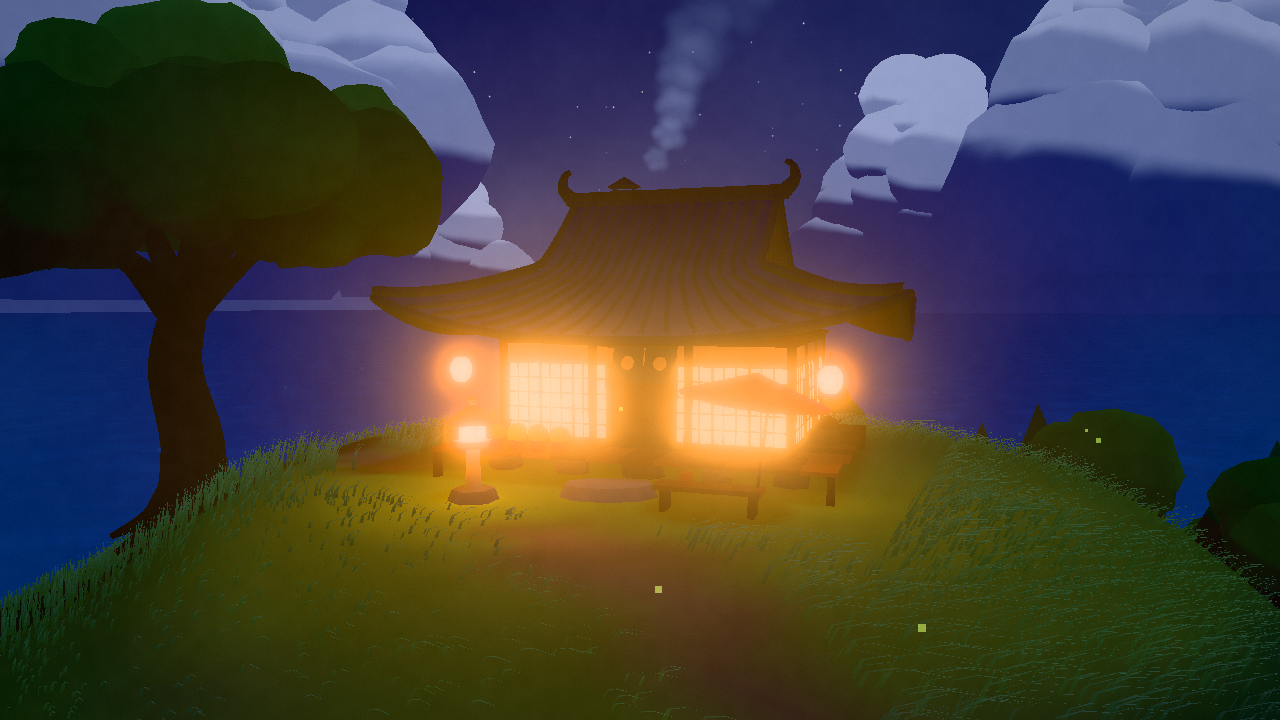
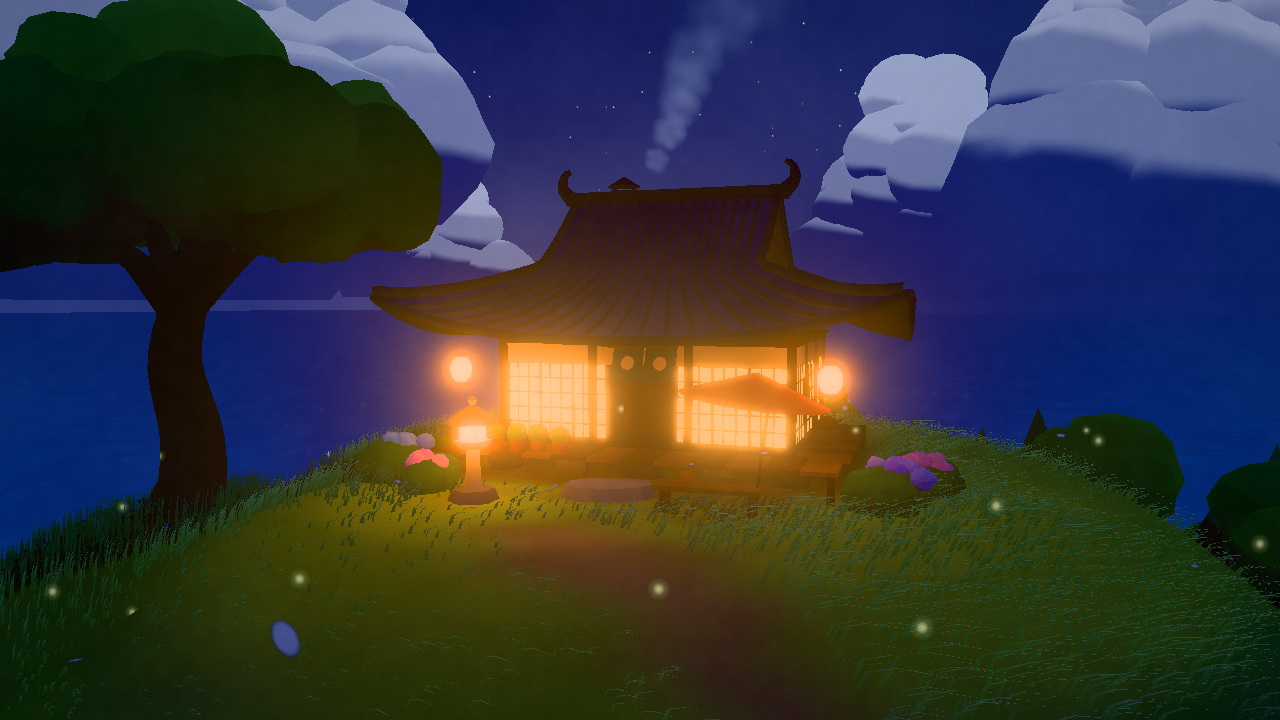
art: wildflower drifts, hydrangeas, drifting petals, kettle steam, soft fireflies, tamer night bloom

diff --git a/src/world/life.ts b/src/world/life.ts
@@ -1,0 +1,192 @@
+import * as THREE from 'three';
+import { mulberry32, fbm2, smoothstep } from '../lib/noise';
+import { blob, merge, paint, place } from '../lib/geo';
+import { toon, globalUniforms, CLOUD_SHADOW_GLSL } from '../render/toon';
+import { heightAt, surfaceAt, pathDistAt, HOUSE, HOUSE_ROT, HERO_TREE } from './terrain';
+
+/**
+ * Cozy life layer:
+ *  - wildflower clumps (clustered by noise, densest along the path and around the house)
+ *  - hydrangea bushes as the one strong hue accent beside the tea house
+ *  - drifting petals carried by the shared wind
+ * Everything is seeded so screenshots are reproducible.
+ */
+
+const FLOWER_COLS = ['#fff3e0', '#ffd25e', '#f59ab8', '#b7a0f4', '#fffaf2'];
+
+/** Instanced flower heads: a tiny 5-petal star on a thin stem, coloured per instance. */
+export function createFlowers(count: number) {
+  // star-shaped head (flat disc with 5 lobes) + stem, in one small geometry
+  const head = new THREE.CircleGeometry(0.09, 10);
+  const p = head.attributes.position as THREE.BufferAttribute;
+  for (let i = 1; i < p.count; i++) {
+    const a = Math.atan2(p.getY(i), p.getX(i));
+    const r = 0.075 + 0.065 * Math.pow(Math.abs(Math.cos(a * 2.5)), 0.6);
+    p.setXY(i, Math.cos(a) * r, Math.sin(a) * r);
+  }
+  head.rotateX(-Math.PI / 2 + 0.35);
+  head.translate(0, 0.17, 0);
+  // a little yellow eye so heads read as flowers, not paper stars
+  const eye = new THREE.SphereGeometry(0.035, 6, 4);
+  eye.translate(0, 0.185, 0.02);
+  const stem = new THREE.CylinderGeometry(0.016, 0.022, 0.17, 4, 1);
+  stem.translate(0, 0.085, 0);
+  // two leaves at the base hide the stem/ground contact
+  const leafA = new THREE.SphereGeometry(0.06, 5, 3); leafA.scale(1.6, 0.35, 0.7); leafA.translate(0.06, 0.04, 0);
+  const leafB = leafA.clone(); leafB.rotateY(2.4);
+  for (const g of [head, stem, eye, leafA, leafB]) { g.deleteAttribute('uv'); }
+  const headCol = new Float32Array(head.attributes.position.count * 3).fill(1);
+  const stemCol = new Float32Array(stem.attributes.position.count * 3);
+  for (let i = 0; i < stem.attributes.position.count; i++) stemCol.set([0.32, 0.5, 0.22], i * 3);
+  head.setAttribute('color', new THREE.BufferAttribute(headCol, 3));
+  stem.setAttribute('color', new THREE.BufferAttribute(stemCol, 3));
+  const solid = (g: THREE.BufferGeometry, c: [number, number, number]) => { const a = new Float32Array(g.attributes.position.count * 3); for (let i = 0; i < g.attributes.position.count; i++) a.set(c, i * 3); g.setAttribute('color', new THREE.BufferAttribute(a, 3)); return g; };
+  // instance colour multiplies vertex colour: eye/leaves are pre-darkened so they stay yellow/green-ish under any tint
+  const geo = merge([head, stem, solid(eye, [1.0, 0.85, 0.35]), solid(leafA, [0.35, 0.55, 0.25]), solid(leafB, [0.32, 0.52, 0.24])]);
+
+  const mat = toon({ vertexColors: true, rim: 0.5, sway: 0.12, swayHeight: 0.4, side: THREE.DoubleSide });
+  const mesh = new THREE.InstancedMesh(geo, mat, count);
+  const rand = mulberry32(2024);
+  const m = new THREE.Matrix4(), q = new THREE.Quaternion(), e = new THREE.Euler(), sc = new THREE.Vector3(), pos = new THREE.Vector3();
+  const col = new THREE.Color();
+  let n = 0, tries = 0;
+  while (n < count && tries < count * 40) {
+    tries++;
+    const x = (rand() - 0.5) * 150, z = (rand() - 0.5) * 150;
+    const s = surfaceAt(x, z);
+    if (s.kind !== 'grass' || s.grassiness < 0.6) continue;
+    // clumps: low-frequency noise picks meadow patches; edges of path and house get extra
+    const clump = fbm2(x * 0.09 + 31, z * 0.09 - 17, 3);
+    const pd = pathDistAt(x, z);
+    const edge = smoothstep(3.2, 1.4, pd) * smoothstep(0.9, 1.4, pd);
+    const nearTree = smoothstep(6, 3, Math.hypot(x - HERO_TREE.x, z - HERO_TREE.z));
+    const keep = smoothstep(0.6, 0.7, clump) + edge * smoothstep(0.45, 0.58, clump) + nearTree * 0.25;
+    if (rand() > keep * keep) continue;
+    // tighten each drift: jitter towards a 1.2 m cell centre so heads touch and form a cushion
+    const cx = (Math.floor(x / 1.2) + 0.5) * 1.2, cz = (Math.floor(z / 1.2) + 0.5) * 1.2;
+    const pull = 0.35 * rand();
+    const fx = x + (cx - x) * pull, fz = z + (cz - z) * pull;
+    // each patch has a dominant colour so clumps read as drifts, not confetti
+    const pick = (Math.floor(fbm2(x * 0.04 - 9, z * 0.04 + 4, 2) * FLOWER_COLS.length * 2.2) + (rand() < 0.12 ? 1 : 0)) % FLOWER_COLS.length;
+    col.set(FLOWER_COLS[pick]).offsetHSL((rand() - 0.5) * 0.03, 0, (rand() - 0.5) * 0.08);
+    pos.set(fx, heightAt(fx, fz) - 0.03, fz);
+    e.set((rand() - 0.5) * 0.3, rand() * Math.PI * 2, (rand() - 0.5) * 0.3);
+    const k = 0.8 + rand() * 0.7;
+    sc.set(k, k * (0.8 + rand() * 0.6), k);
+    m.compose(pos, q.setFromEuler(e), sc);
+    mesh.setMatrixAt(n, m);
+    mesh.setColorAt(n, col);
+    n++;
+  }
+  mesh.count = n;
+  mesh.instanceMatrix.needsUpdate = true;
+  if (mesh.instanceColor) mesh.instanceColor.needsUpdate = true;
+  mesh.frustumCulled = false;
+  return mesh;
+}
+
+/** Hydrangea bushes: mounded leaves crowned with soft blue-violet-pink flower balls. */
+export function createHydrangeas(): THREE.Group {
+  const group = new THREE.Group();
+  const rand = mulberry32(88);
+  const leaves: THREE.BufferGeometry[] = [];
+  const blooms: THREE.BufferGeometry[] = [];
+  const bloomCols = ['#8fa8ff', '#a690f0', '#c39af0', '#f0a8d0', '#7fb6ff'];
+  // spots in house-local space: flanking the step and along the front of the veranda
+  const spots: [number, number, number][] = [[-5.6, 4.3, 1.1], [-4.6, 5.4, 0.8], [5.9, 4.0, 1.0], [6.4, 2.2, 0.85], [-5.4, -1.8, 0.9]];
+  const cr = Math.cos(HOUSE_ROT), sr = Math.sin(HOUSE_ROT);
+  for (const [lx, lz, s] of spots) {
+    const x = HOUSE.x + lx * cr + lz * sr, z = HOUSE.z - lx * sr + lz * cr;
+    const y = heightAt(x, z) - 0.05;
+    const tint = bloomCols[Math.floor(rand() * bloomCols.length)];
+    for (let k = 0; k < 5; k++) {
+      const g = blob(0.55 * s + rand() * 0.2, 2, 0.2, rand() * 30, 0.75);
+      place(g, x + (rand() - 0.5) * 0.9 * s, y + 0.35 * s, z + (rand() - 0.5) * 0.9 * s, rand(), rand() * 6, 0);
+      leaves.push(paint(g, new THREE.Color('#3d7a40').lerp(new THREE.Color('#6aa24e'), rand() * 0.5), 0.05));
+    }
+    const heads = 6 + Math.floor(rand() * 4);
+    for (let k = 0; k < heads; k++) {
+      const a = rand() * Math.PI * 2, r = rand() * 0.6 * s;
+      const g = blob(0.2 + rand() * 0.08, 2, 0.35, rand() * 40, 0.9);
+      place(g, x + Math.cos(a) * r, y + 0.65 * s + rand() * 0.25, z + Math.sin(a) * r);
+      blooms.push(paint(g, new THREE.Color(tint).offsetHSL((rand() - 0.5) * 0.05, 0, (rand() - 0.5) * 0.1), 0.08));
+    }
+  }
+  const lm = new THREE.Mesh(merge(leaves), toon({ vertexColors: true, rim: 0.35, sway: 0.06, swayHeight: 1.2 }));
+  const bm = new THREE.Mesh(merge(blooms), toon({ vertexColors: true, rim: 0.6, sway: 0.08, swayHeight: 1.2 }));
+  for (const mm of [lm, bm]) { mm.castShadow = true; mm.receiveShadow = true; }
+  group.add(lm, bm);
+  return group;
+}
+
+/** Petals drifting on the wind across the hill; wrap around a box centred on a moving focus. */
+export function createPetals(count: number) {
+  const g = new THREE.PlaneGeometry(0.16, 0.11);
+  const geo = new THREE.InstancedBufferGeometry();
+  geo.index = g.index;
+  geo.setAttribute('position', g.attributes.position);
+  geo.setAttribute('uv', g.attributes.uv);
+  const rand = mulberry32(77);
+  const seeds = new Float32Array(count * 4);
+  for (let i = 0; i < count; i++) seeds.set([rand(), rand(), rand(), rand()], i * 4);
+  geo.setAttribute('aSeed', new THREE.InstancedBufferAttribute(seeds, 4));
+  geo.instanceCount = count;
+  const uniforms = {
+    ...globalUniforms,
+    uFocus: { value: new THREE.Vector3() },
+    uLight: { value: new THREE.Color(1, 1, 1) },
+  };
+  const mat = new THREE.ShaderMaterial({
+    uniforms,
+    side: THREE.DoubleSide,
+    transparent: true,
+    depthWrite: false,
+    vertexShader: /* glsl */ `
+      attribute vec4 aSeed;
+      uniform float uTime, uWind; uniform vec2 uWindDir; uniform vec3 uFocus;
+      varying vec2 vUv; varying float vA; varying float vTint; varying vec2 vXZ;
+      void main(){
+        vec3 box = vec3(60.0, 9.0, 60.0);
+        float sp = 0.6 + aSeed.w * 0.8;
+        vec3 drift = vec3(uWindDir.x, 0.0, uWindDir.y) * uTime * (1.4 + uWind) * sp;
+        vec3 p0 = aSeed.xyz * box + drift + vec3(sin(uTime * 0.7 + aSeed.x * 40.0), sin(uTime * 1.1 + aSeed.y * 30.0) * 0.6, cos(uTime * 0.6 + aSeed.z * 50.0)) * 0.9;
+        vec3 rel = mod(p0 - uFocus + box * 0.5, box) - box * 0.5;
+        vec3 wp = uFocus + rel;
+        wp.y = uFocus.y + rel.y * 0.5 + 1.0;
+        // tumble
+        float a = uTime * (1.5 + aSeed.w * 2.0) + aSeed.x * 20.0;
+        float b = uTime * (1.1 + aSeed.z * 1.7) + aSeed.y * 15.0;
+        vec3 v = position;
+        v = vec3(v.x, v.y * cos(a) - v.z * sin(a), v.y * sin(a) + v.z * cos(a));
+        v = vec3(v.x * cos(b) + v.z * sin(b), v.y, -v.x * sin(b) + v.z * cos(b));
+        vUv = uv;
+        vA = smoothstep(box.x * 0.5, box.x * 0.3, length(rel.xz));
+        vTint = aSeed.y;
+        vXZ = wp.xz;
+        gl_Position = projectionMatrix * viewMatrix * vec4(wp + v, 1.0);
+      }`,
+    fragmentShader: /* glsl */ `
+      uniform vec3 uLight;
+      varying vec2 vUv; varying float vA; varying float vTint; varying vec2 vXZ;
+      ${CLOUD_SHADOW_GLSL}
+      void main(){
+        vec2 q = vUv * 2.0 - 1.0;
+        float d = length(q * vec2(1.0, 1.4));
+        if (d > 1.0) discard;
+        vec3 col = mix(vec3(1.0, 0.8, 0.88), vec3(1.0, 0.95, 0.9), vTint);
+        col *= uLight * 1.15;
+        col = applyCloudShadow(col, vXZ);
+        gl_FragColor = vec4(col, vA * smoothstep(1.0, 0.6, d) * 0.95);
+        #include <colorspace_fragment>
+      }`,
+  });
+  const mesh = new THREE.Mesh(geo, mat);
+  mesh.frustumCulled = false;
+  return {
+    mesh,
+    update(focus: THREE.Vector3, light: THREE.Color) {
+      uniforms.uFocus.value.copy(focus);
+      uniforms.uLight.value.copy(light);
+    },
+  };
+}

diff --git a/src/main.ts b/src/main.ts
@@ -11,6 +11,7 @@ import { createHeroTree, createSmallTree } from './models/trees';
 import { createTeaHouse } from './models/teahouse';
 import { mulberry32 } from './lib/noise';
 import { InputController } from './game/input';
+import { createFlowers, createHydrangeas, createPetals } from './world/life';
 import { createFollowCamera, createPlayer } from './game/player';
 
 /**
@@ -79,6 +80,13 @@ scene.add(sea.mesh);
 const grass = createGrass(quality === 'low' ? 50000 : quality === 'med' ? 100000 : 160000);
 grass.mesh.receiveShadow = quality !== 'low';
 scene.add(grass.mesh);
+// cozy life layer: wildflower drifts, hydrangeas by the veranda, petals on the wind
+const flowers = createFlowers(quality === 'low' ? 4000 : quality === 'med' ? 8000 : 14000);
+flowers.receiveShadow = quality !== 'low';
+scene.add(flowers);
+scene.add(createHydrangeas());
+const petals = createPetals(quality === 'low' ? 120 : quality === 'med' ? 220 : 320);
+scene.add(petals.mesh);
 
 const house = createTeaHouse();
 house.group.position.copy(HOUSE);
@@ -168,9 +176,21 @@ for (let i = 0; i < 9; i++) {
   scene.add(s);
 }
 
+// kettle steam on the side veranda
+const kettleTop = house.group.localToWorld(new THREE.Vector3(4.45, 1.42, 0.8));
+const steam: THREE.Sprite[] = [];
+for (let i = 0; i < 6; i++) {
+  const sp = new THREE.Sprite(new THREE.SpriteMaterial({ map: smokeTex, transparent: true, depthWrite: false, opacity: 0 }));
+  sp.userData.phase = i / 6;
+  steam.push(sp);
+  scene.add(sp);
+}
+const petalFocus = new THREE.Vector3();
+const petalLight = new THREE.Color();
+
 // fireflies
 const fireflyGeo = new THREE.BufferGeometry();
-const FF = 60;
+const FF = quality === 'low' ? 60 : 110;
 const ffBase = new Float32Array(FF * 3);
 for (let i = 0; i < FF; i++) {
   const a = rand() * Math.PI * 2, r = 4 + rand() * 30;
@@ -178,7 +198,21 @@ for (let i = 0; i < FF; i++) {
   ffBase.set([x, heightAt(x, z) + 0.6 + rand() * 1.8, z], i * 3);
 }
 fireflyGeo.setAttribute('position', new THREE.BufferAttribute(ffBase.slice(), 3));
-const fireflyMat = new THREE.PointsMaterial({ color: 0xd8ff8a, size: 0.22, transparent: true, opacity: 0, depthWrite: false, blending: THREE.AdditiveBlending });
+// soft round glow sprite: a bright core with a wide falloff (square points read as dead pixels)
+const glowTex = (() => {
+  const c = document.createElement('canvas');
+  c.width = c.height = 64;
+  const g = c.getContext('2d')!;
+  const grd = g.createRadialGradient(32, 32, 0, 32, 32, 32);
+  grd.addColorStop(0, 'rgba(255,255,230,1)');
+  grd.addColorStop(0.18, 'rgba(230,255,150,0.85)');
+  grd.addColorStop(0.5, 'rgba(190,255,110,0.18)');
+  grd.addColorStop(1, 'rgba(190,255,110,0)');
+  g.fillStyle = grd;
+  g.fillRect(0, 0, 64, 64);
+  return new THREE.CanvasTexture(c);
+})();
+const fireflyMat = new THREE.PointsMaterial({ map: glowTex, color: 0xffffff, size: 0.75, sizeAttenuation: true, transparent: true, opacity: 0, depthWrite: false, blending: THREE.AdditiveBlending });
 const fireflies = new THREE.Points(fireflyGeo, fireflyMat);
 scene.add(fireflies);
 
@@ -211,6 +245,7 @@ camera.lookAt(camLook);
 const input = new InputController(renderer.domElement);
 const player = createPlayer();
 player.position.set(7, heightAt(7, 7) + 0.02, 7);
+player.root.visible = playMode; // style-test shots stay clean
 scene.add(player.root);
 const followCamera = createFollowCamera(camera);
 followCamera.reset(player.root);
@@ -271,7 +306,8 @@ function frame(dt: number) {
   // lanterns + shoji glow
   // someone is always home: a faint warm glow by day that swells into lamplight at dusk
   const glow = Math.max(s.lanterns, 0.25 + 0.6 * smooth01((0.62 - s.sunDir.y) / 0.5));
-  for (const m of house.glowMaterials) m.emissiveIntensity = glow * 1.6;
+  // emissive stays soft at night so bloom haloes rather than smears the facade
+  for (const m of house.glowMaterials) m.emissiveIntensity = glow * (1.6 - 0.55 * s.night);
   for (const l of lanternLights) l.intensity = glow * (5 + Math.sin(clock * 7 + l.id) * 0.4);
 
   // smoke
@@ -284,6 +320,23 @@ function frame(dt: number) {
     (sp.material as THREE.SpriteMaterial).rotation = sp.userData.jit * 2 + t * 0.8;
     (sp.material as THREE.SpriteMaterial).color.copy(s.cloudLit).lerp(s.ambientSky, 0.3);
   }
+
+  // kettle steam: small, quick, curling puffs off the spout
+  for (const sp of steam) {
+    const t = (sp.userData.phase + clock * 0.22) % 1;
+    sp.position.copy(kettleTop).add(tmp.set(t * 0.5 * wind + Math.sin(t * 9 + clock) * 0.08, t * 1.3, Math.cos(t * 7 + clock * 1.3) * 0.06));
+    const sz = 0.16 + t * 0.6;
+    sp.scale.set(sz, sz, 1);
+    (sp.material as THREE.SpriteMaterial).opacity = Math.min(1, t * 8) * (1 - t) * 0.45;
+    (sp.material as THREE.SpriteMaterial).color.copy(s.cloudLit);
+  }
+
+  // petals follow whatever the camera is looking at
+  camera.getWorldDirection(petalFocus);
+  petalFocus.multiplyScalar(14).add(camera.position);
+  petalFocus.y = heightAt(petalFocus.x, petalFocus.z) + 0.6;
+  petalLight.copy(s.ambientSky).lerp(s.sunColor, 0.65).multiplyScalar(1.05 - 0.6 * s.night);
+  petals.update(petalFocus, petalLight);
 
   // fireflies wander at night
   const fp = fireflyGeo.attributes.position as THREE.BufferAttribute;

diff --git a/src/render/post.ts b/src/render/post.ts
@@ -70,8 +70,8 @@ export function createPost(renderer: THREE.WebGLRenderer, scene: THREE.Scene, ca
     update(time: number, night: number) {
       grade.uniforms.uTime.value = time;
       grade.uniforms.uNight.value = night;
-      bloom.strength = 0.22 + night * 0.5;
-      bloom.threshold = 0.93 - night * 0.4;
+      bloom.strength = 0.22 + night * 0.32;
+      bloom.threshold = 0.93 - night * 0.25;
     },
   };
 }

diff --git a/src/render/toon.ts b/src/render/toon.ts
@@ -119,7 +119,11 @@ if (uSway > 0.0) {
       .replace(
         '#include <worldpos_vertex>',
         `#include <worldpos_vertex>
-vWorldPosK = (modelMatrix * vec4(transformed, 1.0)).xyz;`,
+vec4 wpk = vec4(transformed, 1.0);
+#ifdef USE_INSTANCING
+wpk = instanceMatrix * wpk;
+#endif
+vWorldPosK = (modelMatrix * wpk).xyz;`,
       );
 
     shader.fragmentShader = shader.fragmentShader
